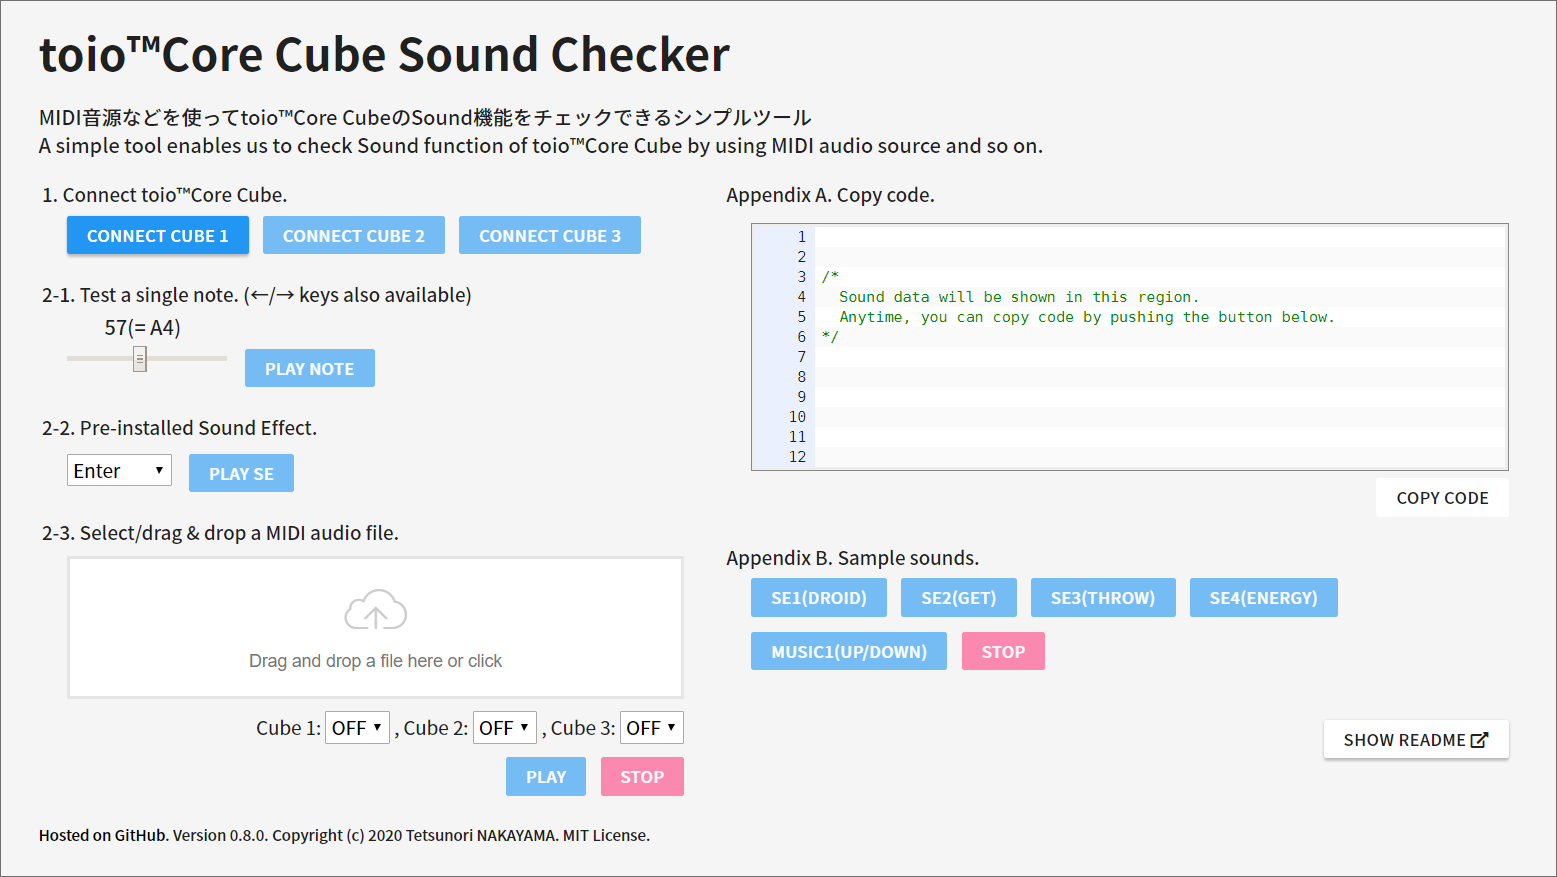
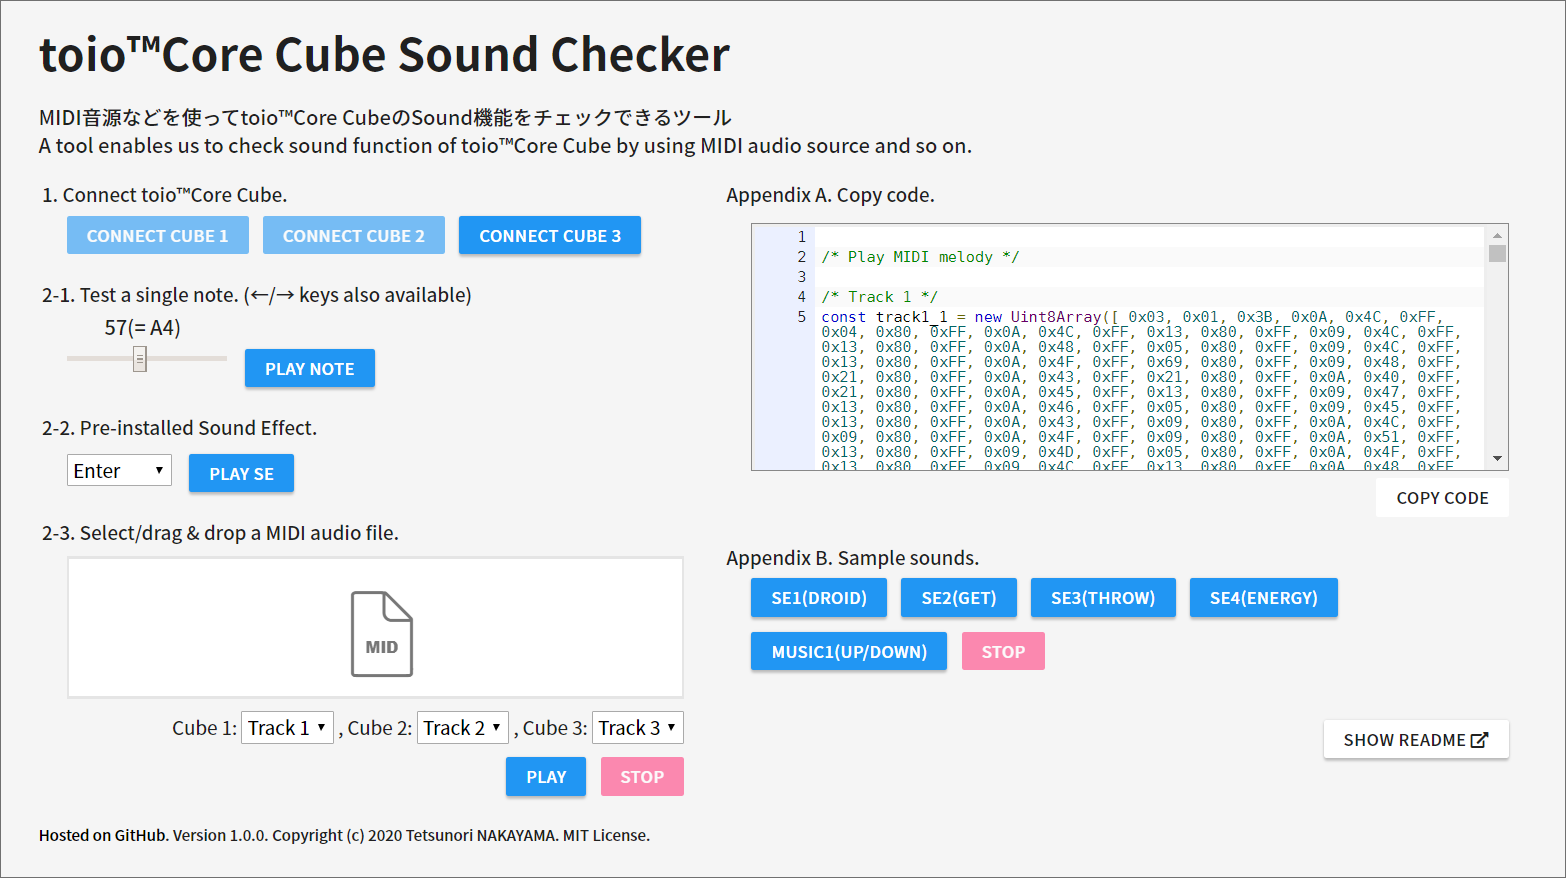
modify for release 1.0.0.

diff --git a/index.html b/index.html
@@ -150,7 +150,7 @@
     
     <!-- Copywrite -->
     <div id="copyWriteText" class="copyWriteText"> 
-      <a href="https://github.com/tetunori/toioCoreCubeSoundChecker" target="_blank">Hosted on GitHub</a>. Version 0.8.0. Copyright (c) 2020 Tetsunori NAKAYAMA. MIT License.
+      <a href="https://github.com/tetunori/toioCoreCubeSoundChecker" target="_blank">Hosted on GitHub</a>. Version 1.0.0. Copyright (c) 2020 Tetsunori NAKAYAMA. MIT License.
     </div>  
 
     <!-- Script -->

diff --git a/README.md b/README.md
@@ -1,5 +1,5 @@
 # toio™Core Cube Sound Checker
-Version 0.8.0  
+Version 1.0.0  
 <img src="./images/screenShot.png" width="800px">
 
 [Game Music Sample](https://youtu.be/LnFHprQWCl4) ↓  
@@ -31,7 +31,7 @@ Now, WebBluetooth works on the limited browser/OS. Please check the support stat
  - Drag&drop a MIDI file into the square below or click it to select a file, then the file will be analyzed and tracks are set in the dropdown next to the string 'Cube N:'. `PLAY` button under the square will be enabled, simultaneously.
  <BR><img src="./images/midi.png" width="600px">
  - After Selecting a track with the dropdown, push `PLAY` button. Then you can hear the sound from Cubes.
- - **CAUTION**: This tool has a problem with synchronization between Cubes. I hope to fix it in the next version if possible.
+ - **CAUTION**: This tool has a problem with synchronization between Cubes on Windows environment. Moreover, please keep this tool fore-ground on Google Chrome for keeping performance.
 
 ## Appendix A. Copy code.
  - All melody codes are shown in this region. Anytime, you can copy by pushing `COPY CODE` button!
